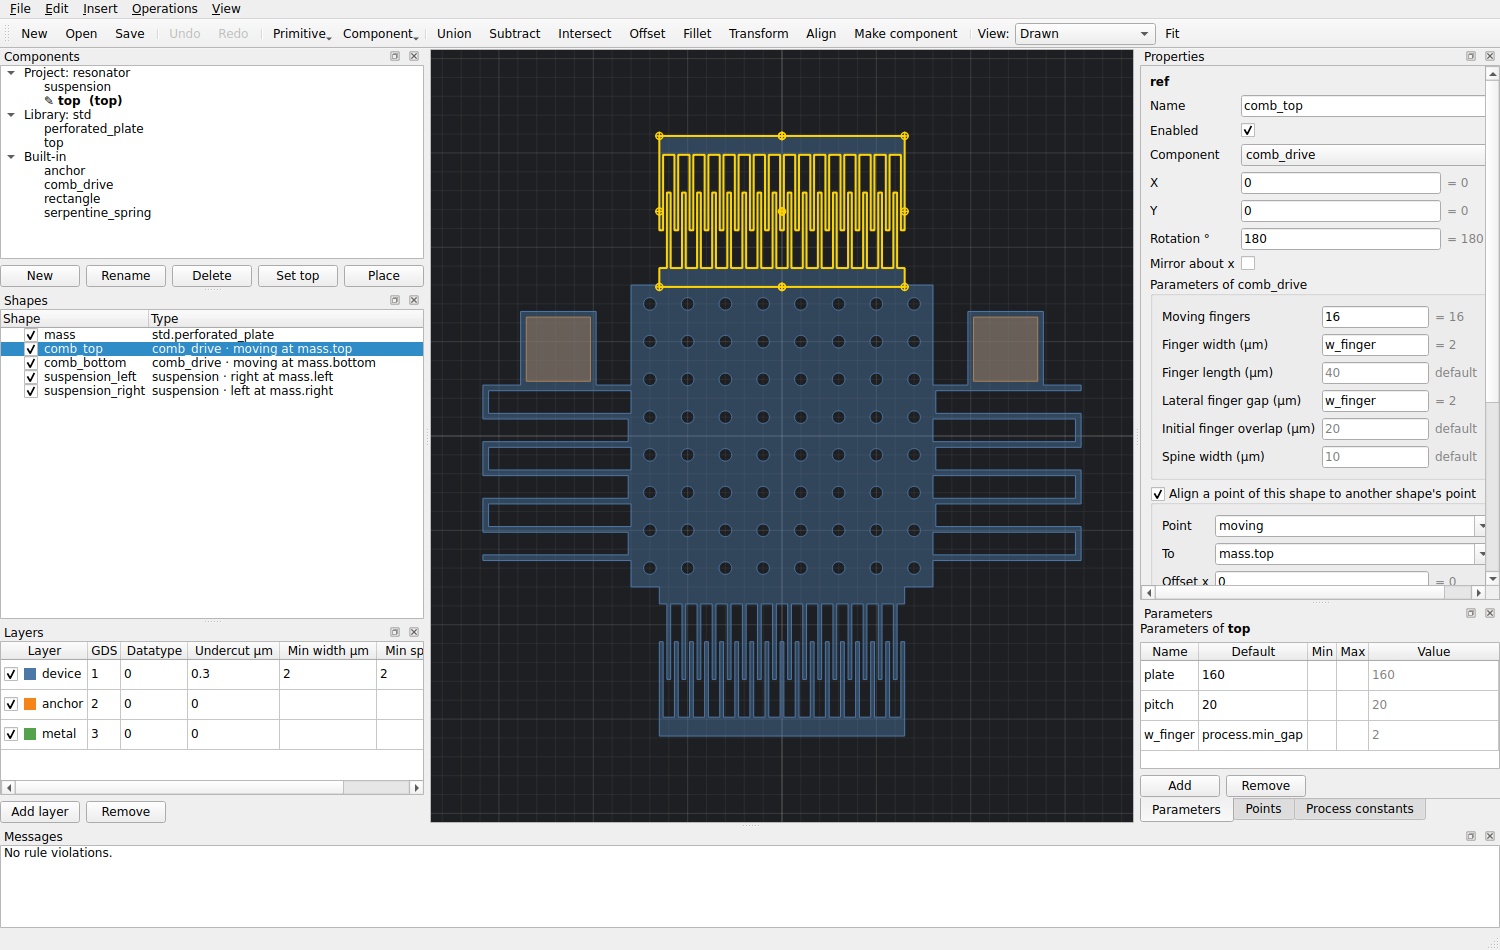
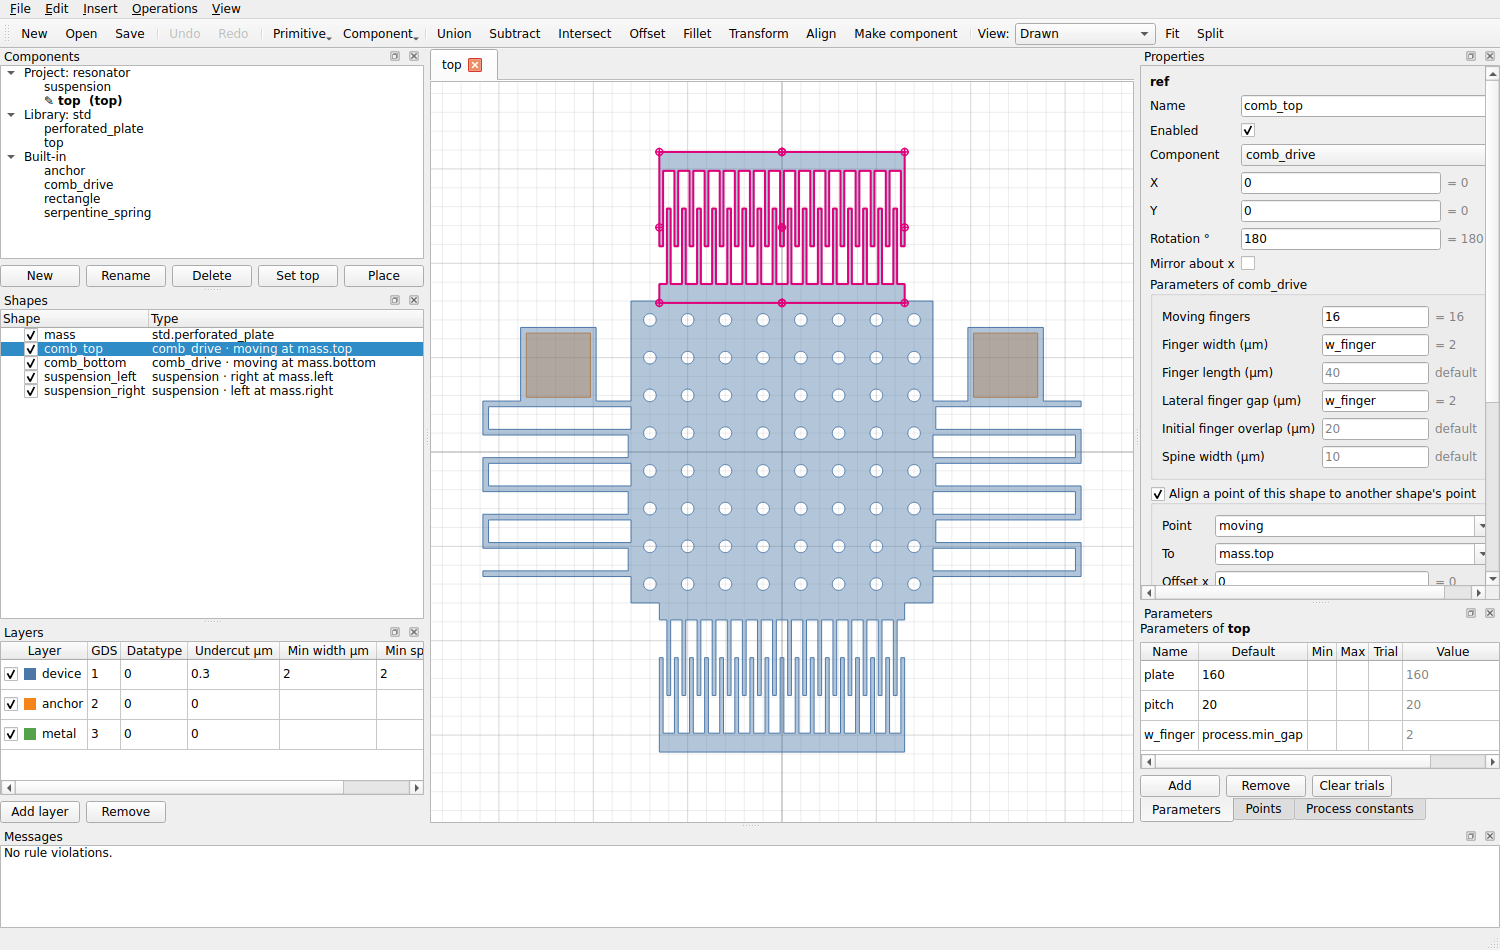
White canvas background by default, with View > Dark canvas
The canvas colours (background, grid, selection, violations, point markers)
now come from a light or a dark theme. Light is the default; the choice is
remembered in the app settings.

Claude-Session: https://claude.ai/code/session_01JBCp9RdUb4Pgf4s5iHcgZo

diff --git a/src/mems_sketch/gui/canvas.py b/src/mems_sketch/gui/canvas.py
@@ -25,13 +25,36 @@ from PySide6.QtWidgets import (
 from mems_sketch.core.component import DBU_UM, Geometry
 
 PALETTE = ["#4c78a8", "#f58518", "#54a24b", "#e45756", "#72b7b2", "#b279a2", "#eeca3b", "#9d755d"]
-HIGHLIGHT = QColor("#ffd400")
-VIOLATION = QColor("#ff2d55")
-POINT_STYLES = {  # colour and marker size in pixels
-    "declared": (QColor("#3ddc84"), 9),  # the edited component's own points
-    "selected": (QColor("#ffd400"), 7),  # points of the selected shape
-    "pick": (QColor("#00c8ff"), 11),  # candidates while aligning
+POINT_SIZES = {  # marker size in pixels
+    "declared": 9,  # the edited component's own points
+    "selected": 7,  # points of the selected shape
+    "pick": 11,  # candidates while aligning
 }
+# Colours per canvas theme. Grid lines are drawn with the ``grid`` colour at
+# increasing opacity for minor lines, every fifth line and the axes.
+THEMES = {
+    "light": {
+        "background": "#ffffff",
+        "grid": (0, 0, 0),
+        "grid_alpha": (18, 40, 90),
+        "highlight": "#e0007a",
+        "violation": "#d7002a",
+        "declared": "#008a3e",
+        "selected": "#e0007a",
+        "pick": "#0072d6",
+    },
+    "dark": {
+        "background": "#1e1f22",
+        "grid": (255, 255, 255),
+        "grid_alpha": (14, 32, 70),
+        "highlight": "#ffd400",
+        "violation": "#ff2d55",
+        "declared": "#3ddc84",
+        "selected": "#ffd400",
+        "pick": "#00c8ff",
+    },
+}
+DEFAULT_THEME = "light"
 
 
 def layer_color(index: int) -> QColor:
@@ -76,7 +99,8 @@ class LayoutCanvas(QGraphicsView):
         self.setHorizontalScrollBarPolicy(Qt.ScrollBarPolicy.ScrollBarAlwaysOff)
         self.setVerticalScrollBarPolicy(Qt.ScrollBarPolicy.ScrollBarAlwaysOff)
         self.setMouseTracking(True)
-        self.setBackgroundBrush(QColor("#1e1f22"))
+        self.theme = THEMES[DEFAULT_THEME]
+        self.setBackgroundBrush(QColor(self.theme["background"]))
         self.setTransform(QTransform.fromScale(2, -2))
         self._layer_items: dict[str, QGraphicsPathItem] = {}
         self._overlay: list = []
@@ -87,6 +111,12 @@ class LayoutCanvas(QGraphicsView):
         self.scene().setSceneRect(QRectF(-1e6, -1e6, 2e6, 2e6))
 
     # -- content -----------------------------------------------------------
+
+    def set_theme(self, name: str) -> None:
+        """Switch between the ``light`` and ``dark`` canvas colours."""
+        self.theme = THEMES[name]
+        self.setBackgroundBrush(QColor(self.theme["background"]))
+        self.viewport().update()
 
     def show_geometry(
         self, geometry: Geometry, colors: dict[str, QColor], visible: dict[str, bool]
@@ -123,7 +153,7 @@ class LayoutCanvas(QGraphicsView):
         if highlight is not None:
             for region in highlight.layers.values():
                 item = QGraphicsPathItem(region_to_path(region))
-                pen = QPen(HIGHLIGHT, 2)
+                pen = QPen(QColor(self.theme["highlight"]), 2)
                 pen.setCosmetic(True)
                 item.setPen(pen)
                 item.setZValue(1000)
@@ -134,7 +164,7 @@ class LayoutCanvas(QGraphicsView):
             item = QGraphicsRectItem(
                 QRectF(x0 - pad, y0 - pad, x1 - x0 + 2 * pad, y1 - y0 + 2 * pad)
             )
-            pen = QPen(VIOLATION, 2)
+            pen = QPen(QColor(self.theme["violation"]), 2)
             pen.setCosmetic(True)
             item.setPen(pen)
             item.setZValue(1001)
@@ -147,7 +177,7 @@ class LayoutCanvas(QGraphicsView):
         """Mark points (name, x, y) with crosses of a style; replaces that style's markers."""
         for item in self._points.pop(style, []):
             self.scene().removeItem(item)
-        color, size = POINT_STYLES[style]
+        color, size = QColor(self.theme[style]), POINT_SIZES[style]
         items = []
         for name, x, y in points:
             marker = _PointMarker(color, size)
@@ -248,9 +278,9 @@ class LayoutCanvas(QGraphicsView):
     def drawBackground(self, painter: QPainter, rect: QRectF) -> None:  # noqa: N802
         super().drawBackground(painter, rect)
         step = self.grid_step()
-        minor = QPen(QColor(255, 255, 255, 14), 0)
-        major = QPen(QColor(255, 255, 255, 32), 0)
-        axis = QPen(QColor(255, 255, 255, 70), 0)
+        minor, major, axis = (
+            QPen(QColor(*self.theme["grid"], alpha), 0) for alpha in self.theme["grid_alpha"]
+        )
         left, right = math.floor(rect.left() / step), math.ceil(rect.right() / step)
         top, bottom = math.floor(rect.top() / step), math.ceil(rect.bottom() / step)
         if (right - left) * (bottom - top) > 400_000:

diff --git a/src/mems_sketch/gui/app.py b/src/mems_sketch/gui/app.py
@@ -29,7 +29,7 @@ from PySide6.QtWidgets import (
 from mems_sketch.core.component import to_dbu
 from mems_sketch.core.shapes import Align, NodePath
 from mems_sketch.export.base import available_exporters
-from mems_sketch.gui.canvas import LayoutCanvas
+from mems_sketch.gui.canvas import DEFAULT_THEME, THEMES, LayoutCanvas
 from mems_sketch.gui.document import VIEW_MODES, ProjectDocument
 from mems_sketch.gui.panels import (
     ComponentsPanel,
@@ -74,6 +74,8 @@ class MainWindow(QMainWindow):
         self._candidates: list[tuple[str, float, float]] = []
         self._problems: list[str] = []
         self._restoring = False  # while opening a project, the tab layout is not saved
+        theme = QSettings("mems-sketch", "mems-sketch").value("canvas/theme", DEFAULT_THEME)
+        self.canvas_theme = theme if theme in THEMES else DEFAULT_THEME
 
         self.area = EditorArea(self.document)
         self.setCentralWidget(self.area)
@@ -164,6 +166,7 @@ class MainWindow(QMainWindow):
                 lambda x, y, v=view: self._view_double_clicked(v, x, y)
             )
             view.canvas.cursor_moved.connect(self._cursor_moved)
+            view.canvas.set_theme(self.canvas_theme)
         return view
 
     def _view_activated(self, view: ComponentView) -> None:
@@ -183,6 +186,18 @@ class MainWindow(QMainWindow):
     def _set_layer_visible(self, layer: str, visible: bool) -> None:
         for view in self.area.views():
             view.canvas.set_layer_visible(layer, visible)
+
+    def set_canvas_theme(self, theme: str) -> None:
+        """Light or dark canvas background for every tab; remembered for next time."""
+        self.canvas_theme = theme
+        for view in self.area.views():
+            view.canvas.set_theme(theme)
+        self.dark_action.setChecked(theme == "dark")
+        QSettings("mems-sketch", "mems-sketch").setValue("canvas/theme", theme)
+        self._update_overlay()
+
+    def _toggle_dark(self, checked: bool) -> None:
+        self.set_canvas_theme("dark" if checked else "light")
 
     def split_view(self) -> None:
         view = self.area.split_view()
@@ -316,6 +331,9 @@ class MainWindow(QMainWindow):
         view = bar.addMenu("&View")
         self._action("Fit", lambda: self.canvas.fit(), "F", view)
         self._action("Recompile and check", self.refresh, "F5", view)
+        self.dark_action = self._action("Dark canvas", self._toggle_dark, None, view)
+        self.dark_action.setCheckable(True)
+        self.dark_action.setChecked(self.canvas_theme == "dark")
         view.addSeparator()
         self._action("Open top component", self._edit_top, "Ctrl+T", view)
         self._action("Split view", self.split_view, "Ctrl+\\", view)

diff --git a/tests/test_gui_window.py b/tests/test_gui_window.py
@@ -157,3 +157,12 @@ def test_property_editor_edits_the_alignment(window):
     editor.apply()
     assert window.document.node(((0, 1),)).align.to == "rect1.right"
     assert window.points.table.rowCount() == 0
+
+
+def test_canvas_is_white_by_default_and_can_be_dark(window):
+    assert window.canvas.backgroundBrush().color().name() == "#ffffff"
+    window.set_canvas_theme("dark")
+    assert window.canvas.backgroundBrush().color().name() == "#1e1f22"
+    again = MainWindow()  # the choice is remembered
+    assert again.canvas.backgroundBrush().color().name() == "#1e1f22"
+    again.close()

diff --git a/README.md b/README.md
@@ -144,9 +144,10 @@ MATLAB with `system(...)`.
   or disable a node; Ctrl/Shift-click selects several. Boolean operands appear
   under A and B, and each alignment is shown (e.g. `bottom at spring.end`).
 - **Canvas**: wheel to zoom, middle or right drag to pan, F to fit, click to
-  select. The selection is outlined in yellow with its alignment points, rule
+  select. The selection is outlined with its alignment points, rule
   violations are boxed in red and the component's own points are marked in
-  green. The View box switches between drawn, as-etched and etch-compensated
+  green. The background is white; **View → Dark canvas** switches to dark
+  (remembered). The View box switches between drawn, as-etched and etch-compensated
   geometry.
 - **Properties**: generated from the selected node's schema. Any numeric field
   takes a number or an expression, with its value shown beside it. For a
